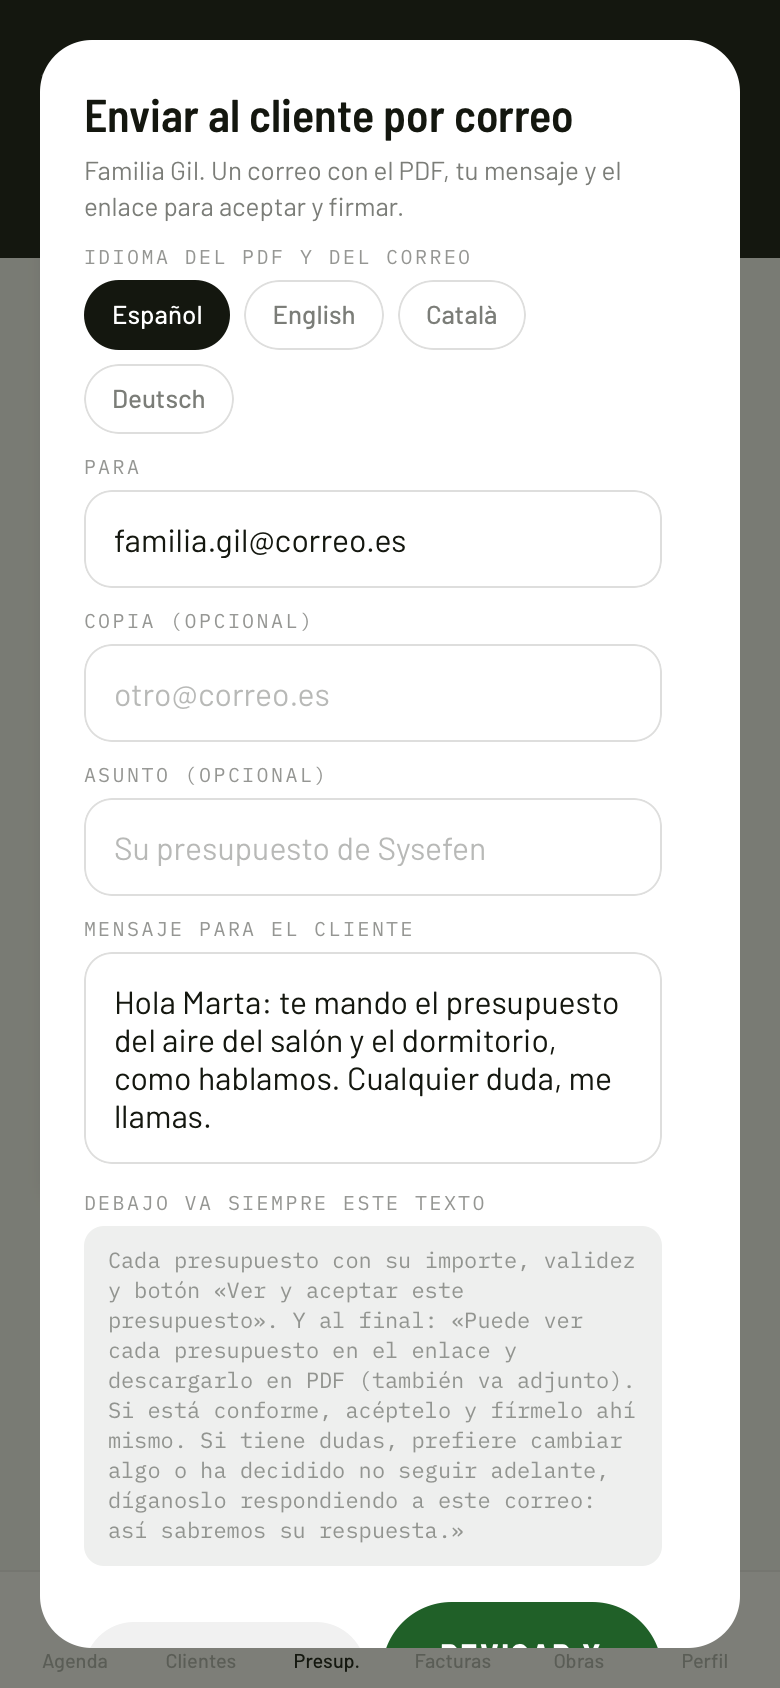
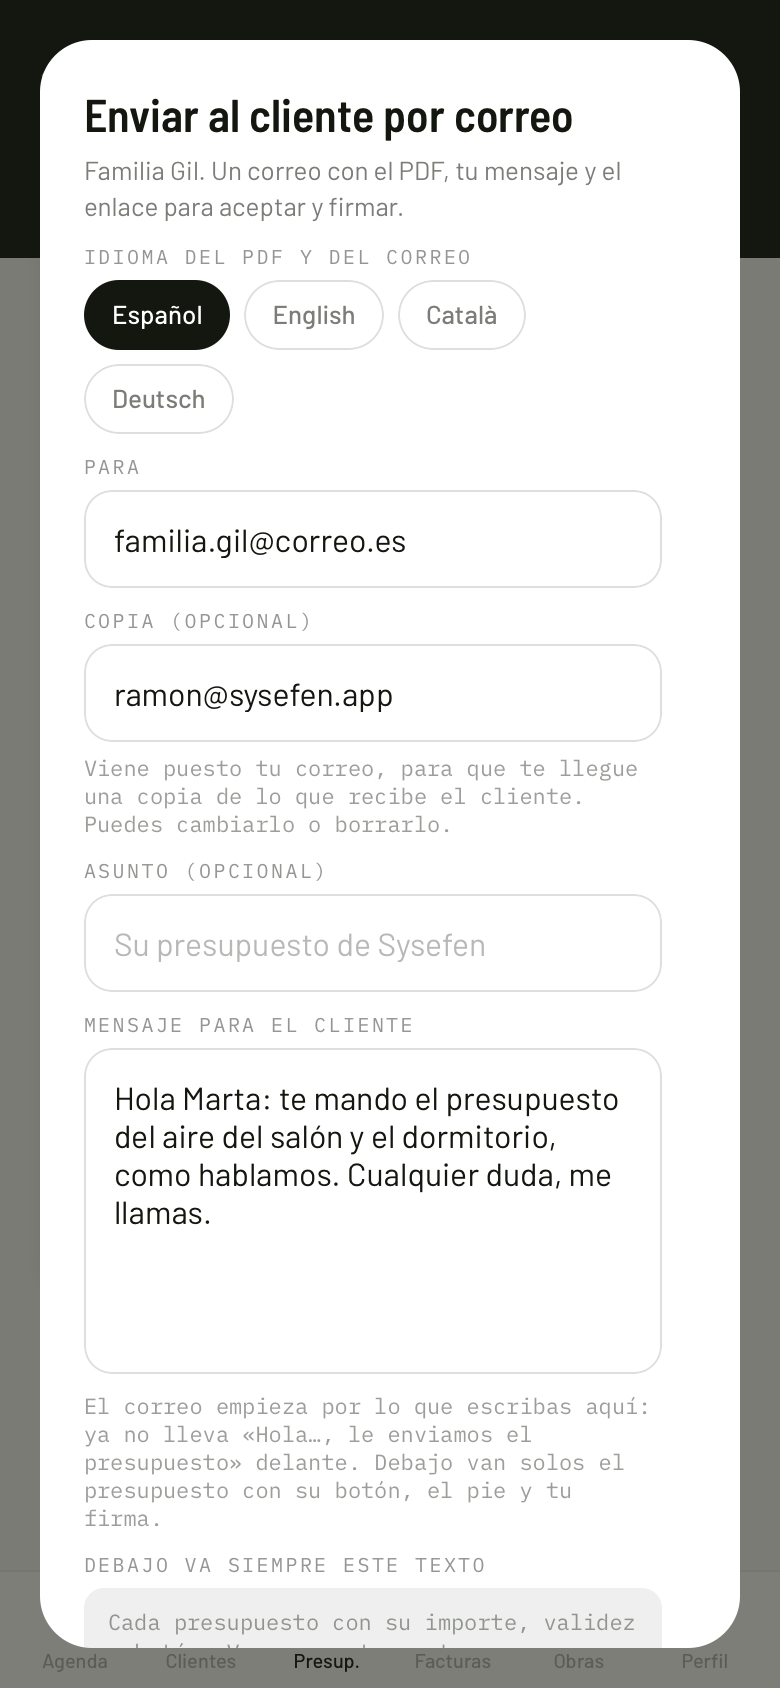
V34.9 (Enzo, 27-11-2026): la copia del correo del presupuesto, a quien lo envía; y la hoja que se repinta ya no vuelve arriba. «Cuando se envíe un presupuesto… y dice mail de copia, que esté predeterminado el del mismo usuario que lo envía, así se le manda como copia.» Y: «cada vez que modifico la p

diff --git a/index.html b/index.html
@@ -569,7 +569,7 @@ import * as idiomas from './presu-idiomas.js';
 window.Sysefen = { supabase, auth: sysAuth, db: sysDB };
 
 const KEY = 'ch_v1';
-const APP_VERSION = '34.8'; // versión visible de la app (única fuente)
+const APP_VERSION = '34.9'; // versión visible de la app (única fuente)
 const $ = (s) => document.querySelector(s);
 const esc = (v) => String(v == null ? '' : v).replace(/[&<>"']/g, (c) => ({ '&': '&amp;', '<': '&lt;', '>': '&gt;', '"': '&quot;', "'": '&#39;' }[c]));
 const uid = () => Date.now().toString(36) + Math.random().toString(36).slice(2, 7);
@@ -4650,7 +4650,19 @@ function render() {
   // datos que cambiaron justo antes, como el usuario tras salir), que se
   // cierre solo en vez de dejar toda la pantalla congelada sin avisar.
   if (V.sheet) { try { html += sheet(); } catch (e) { V.sheet = null; } }
+  // Una hoja que se repinta (quitar un renglón, marcar una casilla) se queda donde
+  // estaba, sin volver arriba ni repetir la entrada (Enzo, 27-11-2026: «elimino un
+  // renglón, sube al inicio y debo bajar nuevamente»). Solo si es la misma hoja y
+  // el mismo paso: al abrir otra o pasar a confirmar, empieza arriba.
+  const hojaClaveAhora = V.sheet ? hojaClave(V.sheet) : null;
+  const hojaVieja = hojaClaveAhora && hojaClaveAhora === hojaPintada ? app.querySelector('.sheet>div') : null;
+  const hojaBajada = hojaVieja ? hojaVieja.scrollTop : null;
   app.innerHTML = html;
+  hojaPintada = hojaClaveAhora;
+  if (hojaBajada != null) {
+    const hoja = app.querySelector('.sheet>div');
+    if (hoja) { hoja.style.animation = 'none'; if (hoja.parentNode && hoja.parentNode.style) hoja.parentNode.style.animation = 'none'; hoja.scrollTop = hojaBajada; }
+  }
   escenasAnimar();
   if (V.view === 'p2') montarFirma();
   if (V.sheet && V.sheet.tipo === 'firmaPlanilla') montarFirmaPlanilla();
@@ -4716,6 +4728,9 @@ let actualizacionPendiente = false;
 let cartelActualizarFn = null;
 window.addEventListener('pagehide', () => { if (/^p[123]$/.test(V.view) && V.draft) guardarBorradorParte(); });
 const scrollMemo = {};
+// Qué hoja hay pintada y en qué paso, para saber si un repintado es «la misma».
+let hojaPintada = null;
+const hojaClave = (s) => [s.tipo, s.id || '', s.confirmar ? 'c' : '', s.modo || ''].join('|');
 document.addEventListener('scroll', (e) => {
   if (e.target.classList && (e.target.classList.contains('scroll') || e.target.classList.contains('hoja'))) scrollMemo[V.view] = e.target.scrollTop;
 }, true);
@@ -13048,14 +13063,22 @@ function vPresupuestoVer() {
 // respuesta del cliente, y los botones para marcar cada uno (sql/etapa64).
 const CAT_A_OBRA = { aerotermia: 'AE', solar: 'FV', aire_acondicionado: 'AC', electricidad: 'EL', otro: 'OT' };
 /* ---------- enviar el presupuesto al cliente por correo (Enzo, 27-10-2026) ---------- */
+// La copia va por defecto a quien lo envía (Enzo, 27-11-2026: «que esté predeterminado
+// el del mismo usuario que lo envía, así se le manda como copia»). Es su correo de
+// avisos: el de acceso es inventado (…@sysefen.app) y no recibe nada.
+const miCorreoCopia = (para) => {
+  const r = empRowById(miEmpId()); const c = String((r && r.email_avisos) || '').trim();
+  return /^[^\s@]+@[^\s@]+\.[^\s@]+$/.test(c) && c.toLowerCase() !== String(para || '').trim().toLowerCase() ? c : '';
+};
 A.presuEnviarAbrir = async () => {
   const d = V.presuVer && V.presuVer.datos; if (!d) return;
   if (!navigator.onLine) { avisar('Sin conexión.'); return; }
   const cli = d.cliente_id ? agCliente(d.cliente_id) : null;
   if (!V.presuLista.cargado) { try { await A.cargarPresupuestos(); } catch (_) { /* da igual */ } }
   const otros = (V.presuLista.filas || []).filter((p) => p.cliente_id && p.cliente_id === d.cliente_id && p.id !== d.id && (p.respuesta_cliente || 'pendiente') === 'pendiente');
+  const para = (cli && cli.email) || d.enviado_correo_a || '';
   V.sheet = { tipo: 'presuEnviar', id: d.id, ids: [d.id], otros,
-    v: { para: (cli && cli.email) || d.enviado_correo_a || '', cc: '', asunto: '', mensaje: '', idioma: idiomas.idiomaValido(V.presuVer.idioma) }, confirmar: false, busy: false, paso: '', trad: null };
+    v: { para, cc: miCorreoCopia(para), asunto: '', mensaje: '', idioma: idiomas.idiomaValido(V.presuVer.idioma) }, confirmar: false, busy: false, paso: '', trad: null };
   render();
 };
 A.presuEnviarCampo = (k, v) => { const s = V.sheet; if (s && s.tipo === 'presuEnviar') s.v[k] = v; };
@@ -16440,6 +16463,7 @@ function sheet() {
       ${v.idioma !== 'es' ? '<div class="tiny" style="margin-top:6px">Las líneas del presupuesto, tu asunto y tu mensaje se traducen al revisar; el texto fijo del correo va en ese idioma.</div>' : ''}
       <div class="lbl" style="margin:12px 0 6px">Para</div><input class="inp" data-f="pe:para" type="email" inputmode="email" autocapitalize="off" value="${esc(v.para)}" placeholder="cliente@correo.es">
       <div class="lbl" style="margin:12px 0 6px">Copia (opcional)</div><input class="inp" data-f="pe:cc" type="email" inputmode="email" autocapitalize="off" value="${esc(v.cc)}" placeholder="otro@correo.es">
+      <div class="tiny" style="margin-top:6px">${miCorreoCopia() ? 'Viene puesto tu correo, para que te llegue una copia de lo que recibe el cliente. Puedes cambiarlo o borrarlo.' : 'No tienes correo de avisos en tu ficha de empleado: si lo pones, aquí saldrá solo para que te llegue una copia.'}</div>
       <div class="lbl" style="margin:12px 0 6px">Asunto (opcional)</div><input class="inp" data-f="pe:asunto" value="${esc(v.asunto)}" placeholder="${esc((elegidos.length > 1 ? 'Sus presupuestos' : 'Su presupuesto') + ' de Sysefen')}">
       <div class="lbl" style="margin:12px 0 6px">Mensaje para el cliente</div><textarea class="inp" data-f="pe:mensaje" rows="7" placeholder="Escribe aquí el correo entero, empezando por el saludo: qué incluye cada opción, plazos, qué le recomiendas…">${esc(v.mensaje)}</textarea>
       <div class="tiny" style="margin-top:6px">El correo empieza por lo que escribas aquí: ya no lleva «Hola…, le enviamos el presupuesto» delante. Debajo van solos el presupuesto con su botón, el pie y tu firma.</div>

diff --git a/pruebas/aviso-vencimiento.js b/pruebas/aviso-vencimiento.js
@@ -135,6 +135,33 @@ setTimeout(function () {
       return A.presuEnviarRevisar();
     }).then(function () {
       comprueba('con mensaje, sigue a la confirmación', V.sheet.confirmar === true && avisos.length === 1);
+      // La copia, por defecto a quien lo envía (Enzo, 27-11-2026).
+      titulo('la copia va por defecto a quien envía el presupuesto');
+      empIdPorNombre['Fabrizio'] = 'e9';
+      empRows = [{ id: 'e9', nombre: 'Fabrizio', email: 'fabrizio@sysefen.app', email_avisos: ' comercial@ejemplo.es ' }];
+      igual('es su correo de avisos, sin espacios', miCorreoCopia('marta@ejemplo.es'), 'comercial@ejemplo.es');
+      igual('si el cliente es esa misma dirección, no se repite', miCorreoCopia('COMERCIAL@ejemplo.es'), '');
+      V.agenda.clientes = [{ id: 'c1', nombre: 'Marta Pons', email: 'marta@ejemplo.es' }];
+      V.presuVer = { datos: con({ cliente_id: 'c1' }), idioma: 'es' }; V.presuLista.cargado = true; V.presuLista.filas = [];
+      V.sheet = null;
+      return A.presuEnviarAbrir();
+    }).then(function () {
+      comprueba('al abrir la hoja, la copia ya trae el correo de quien envía', !!V.sheet && V.sheet.tipo === 'presuEnviar' && V.sheet.v.cc === 'comercial@ejemplo.es' && V.sheet.v.para === 'marta@ejemplo.es');
+      comprueba('y la hoja lo explica: se puede cambiar o borrar', sheet().indexOf('value="comercial@ejemplo.es"') > -1 && sheet().indexOf('Viene puesto tu correo') > -1);
+      empRows = [{ id: 'e9', nombre: 'Fabrizio', email: 'fabrizio@sysefen.app', email_avisos: null }];
+      igual('sin correo de avisos no se pone el de acceso, que es inventado', miCorreoCopia('marta@ejemplo.es'), '');
+      V.sheet = null;
+      return A.presuEnviarAbrir();
+    }).then(function () {
+      comprueba('sin correo de avisos la copia sale vacía y la hoja dice cómo ponerlo', V.sheet.v.cc === '' && sheet().indexOf('No tienes correo de avisos') > -1);
+      // Una hoja que se repinta no vuelve arriba (Enzo, 27-11-2026).
+      titulo('la hoja que se repinta se queda donde estaba');
+      var h1 = { tipo: 'fv2Desglose', modo: 'ajuste', items: [1, 2, 3] };
+      igual('quitar un renglón no cambia de hoja', hojaClave(h1), hojaClave({ tipo: 'fv2Desglose', modo: 'ajuste', items: [1, 2] }));
+      comprueba('otra hoja, u otro presupuesto, sí', hojaClave(h1) !== hojaClave({ tipo: 'presuEnviar' }) && hojaClave({ tipo: 'presuEnviar', id: 'p1' }) !== hojaClave({ tipo: 'presuEnviar', id: 'p2' }));
+      comprueba('pasar a confirmar empieza arriba', hojaClave({ tipo: 'presuEnviar', id: 'p1' }) !== hojaClave({ tipo: 'presuEnviar', id: 'p1', confirmar: true }));
+      var fuente = read(RUTA_TMP + '/app.js');
+      comprueba('render guarda dónde estaba la hoja antes de repintar y lo repone', fuente.indexOf("const hojaBajada = hojaVieja ? hojaVieja.scrollTop : null;") > -1 && fuente.indexOf('hoja.scrollTop = hojaBajada;') > -1 && fuente.indexOf('hojaPintada = hojaClaveAhora;') > -1);
       V.sheet = null;
       resultado();
     });

diff --git a/manual/index.html b/manual/index.html
@@ -695,6 +695,7 @@ footer{margin-top:60px;padding-top:20px;border-top:1px solid var(--l1);color:var
     <ul>
       <li><b>Idioma</b> del PDF y del correo: español, inglés, catalán o alemán. En otro idioma, tu asunto y tu mensaje se traducen y los ves antes de confirmar.</li>
       <li><b>Para</b> (viene el correo del cliente), <b>copia</b>, <b>asunto</b> y tu <b>mensaje</b>.</li>
+      <li>En <b>Copia</b> viene puesto <b>tu correo</b> (el «Email para avisos» de tu ficha de empleado), para que te llegue lo mismo que recibe el cliente. Puedes cambiarlo o borrarlo; si no tienes correo de avisos, sale vacío.</li>
       <li>El <b>mensaje es el correo</b>: ya no lleva delante «Hola…, le enviamos el presupuesto que hemos preparado». Empieza por lo que tú escribas, saludo incluido, y por eso es obligatorio. Debajo van solos el presupuesto con su botón, el pie y tu firma.</li>
       <li>Si el cliente tiene más presupuestos sin contestar, puedes marcar <b>varias opciones</b> para mandarlas juntas: cada una con su PDF y su enlace.</li>
       <li><span class="btn verde">Revisar y enviar</span> pide confirmación antes de mandar nada.</li>
@@ -1017,7 +1018,7 @@ footer{margin-top:60px;padding-top:20px;border-top:1px solid var(--l1);color:var
   <tr><td>Un cliente no está en la hoja de clientes</td><td>En su ficha, <b>Apuntarlo en la hoja</b>. Los que se crean desde la app van solos.</td></tr>
 </table>
 
-<footer>Manual de la app Sysefen · al día con la versión 34.8 (26-11-2026) · las pantallas son de ejemplo, con datos inventados · se regenera con <code>herramientas/manual/capturar.py</code></footer>
+<footer>Manual de la app Sysefen · al día con la versión 34.9 (27-11-2026) · las pantallas son de ejemplo, con datos inventados · se regenera con <code>herramientas/manual/capturar.py</code></footer>
 </main>
 </div>
 </body>

diff --git a/herramientas/manual/escenas.js b/herramientas/manual/escenas.js
@@ -323,7 +323,7 @@
     'pres-presu-ver': () => { base('u5'); V.view = 'presupuestoVer'; V.presuVer = { id: 'q2', cargando: false, datos: PRESU_VER, error: null }; V.presuEdit = null; },
     'pres-presu-enviar-btn': () => { base('u5'); V.view = 'presupuestoVer'; V.presuVer = { id: 'q2', cargando: false, datos: PRESU_REVISADO, error: null, facturas: [] }; window.__scrollTxt = 'Revisado · por enviar'; },
     'pres-presu-enviar': () => { ESCENAS['pres-presu-enviar-btn'](); window.__scrollA = 0;
-      V.sheet = { tipo: 'presuEnviar', id: 'q2', ids: ['q2'], otros: [], v: { para: 'familia.gil@correo.es', cc: '', asunto: '', mensaje: 'Hola Marta: te mando el presupuesto del aire del salón y el dormitorio, como hablamos. Cualquier duda, me llamas.', idioma: 'es' }, confirmar: false, busy: false, paso: '', trad: null }; },
+      V.sheet = { tipo: 'presuEnviar', id: 'q2', ids: ['q2'], otros: [], v: { para: 'familia.gil@correo.es', cc: 'ramon@sysefen.app', asunto: '', mensaje: 'Hola Marta: te mando el presupuesto del aire del salón y el dormitorio, como hablamos. Cualquier duda, me llamas.', idioma: 'es' }, confirmar: false, busy: false, paso: '', trad: null }; },
     'pres-presu-aceptado': () => { base('u5'); V.view = 'presupuestoVer'; V.presuVer = { id: 'q2', cargando: false, datos: PRESU_ACEPTADO, error: null, facturas: [FACTURAS[0]] }; window.__scrollTxt = '✓ Aceptado y firmado'; },
     // El cliente contesta desde su página (V34.0): pide cambios o rechaza, con su comentario.
     'pres-agenda-comentarios': () => { base('u5'); V.view = 'agenda';

diff --git a/sw.js b/sw.js
@@ -1,4 +1,4 @@
-const CACHE = 'ch-v34-8';
+const CACHE = 'ch-v34-9';
 const ASSETS = ['./', './index.html', './manifest.webmanifest', './supabase-client.js', './supabase-auth.js', './supabase-db.js', './visitas-schemas.js', './visitas-form.js', './visitas-db.js', './presu-idiomas.js', './icon-192.png?v=2', './icon-512.png?v=2', './icon-maskable.png?v=2', './logo-trans.png?v=3', './logo-blanco.png?v=3', './logo-s-blanco.png?v=2', './fondo-login.jpg'];
 
 // Al instalarse una versión nueva NO se activa sola: se queda esperando y la
